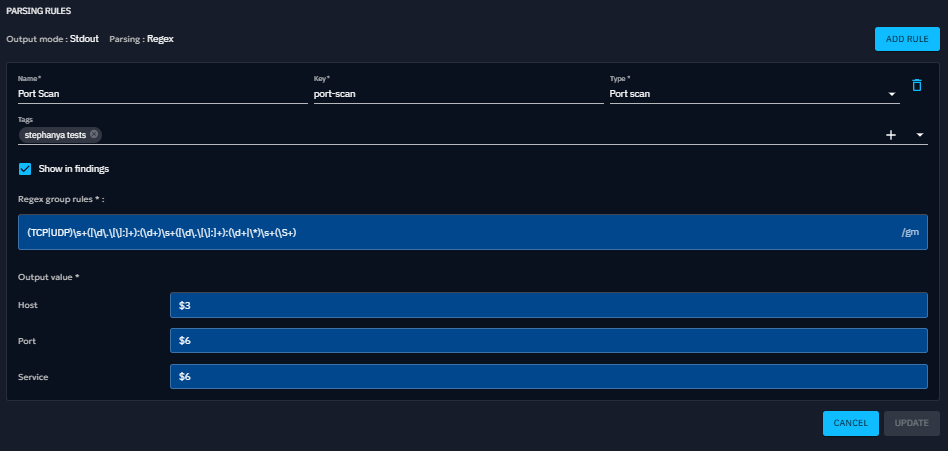
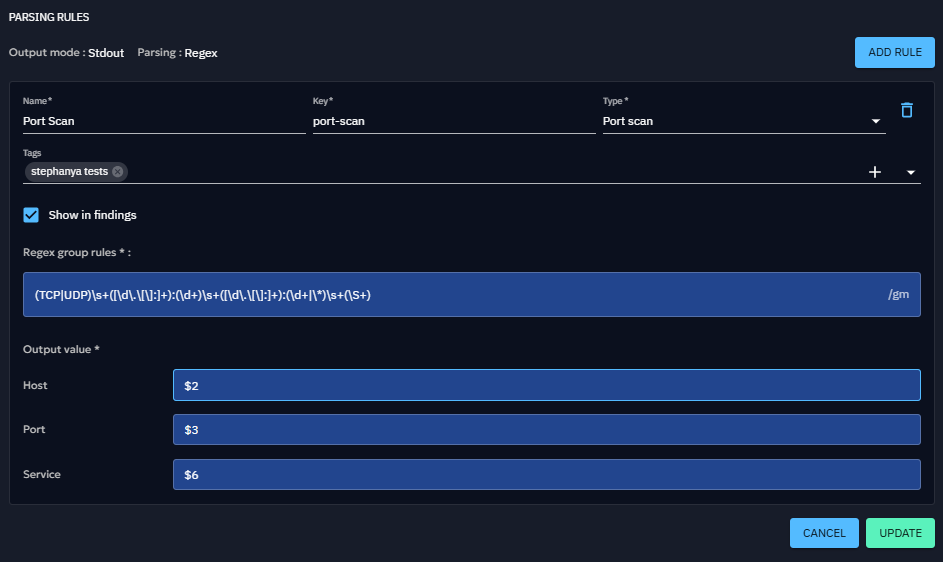
[docs] Update images

diff --git a/docs/usage/payloads/payloads.md b/docs/usage/payloads/payloads.md
@@ -160,7 +160,7 @@ specific capture group:
 
 - **Host** (`$2`)
 - **Port** (`$3`)
-- **Service** (`$4`)
+- **Service** (`$6`)
 
 The finding generated would be:
 
